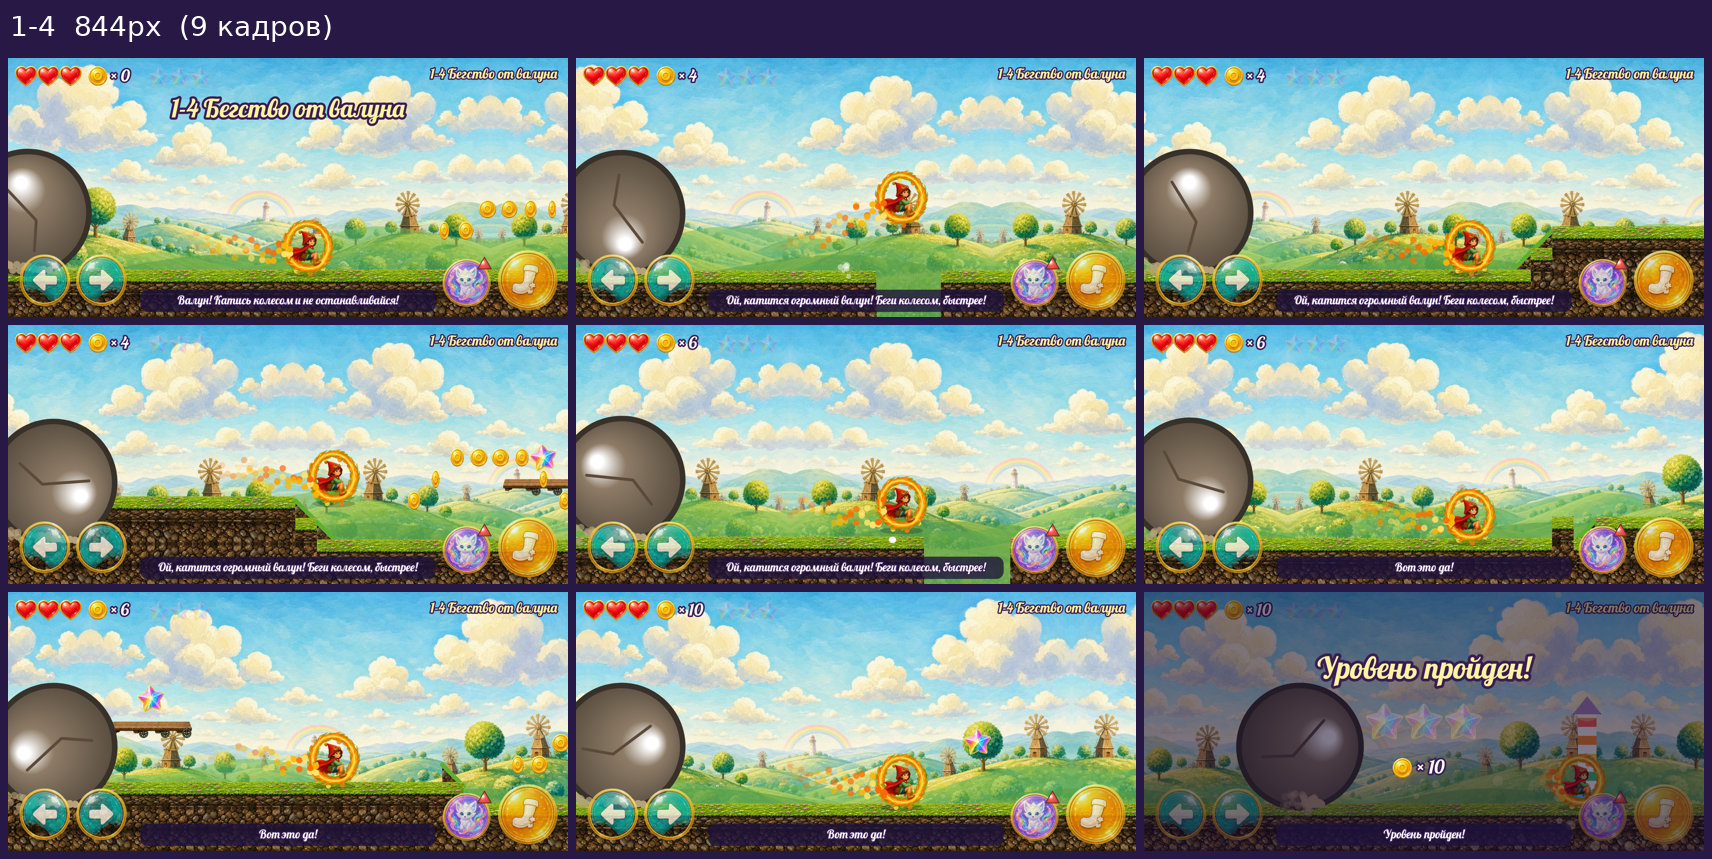
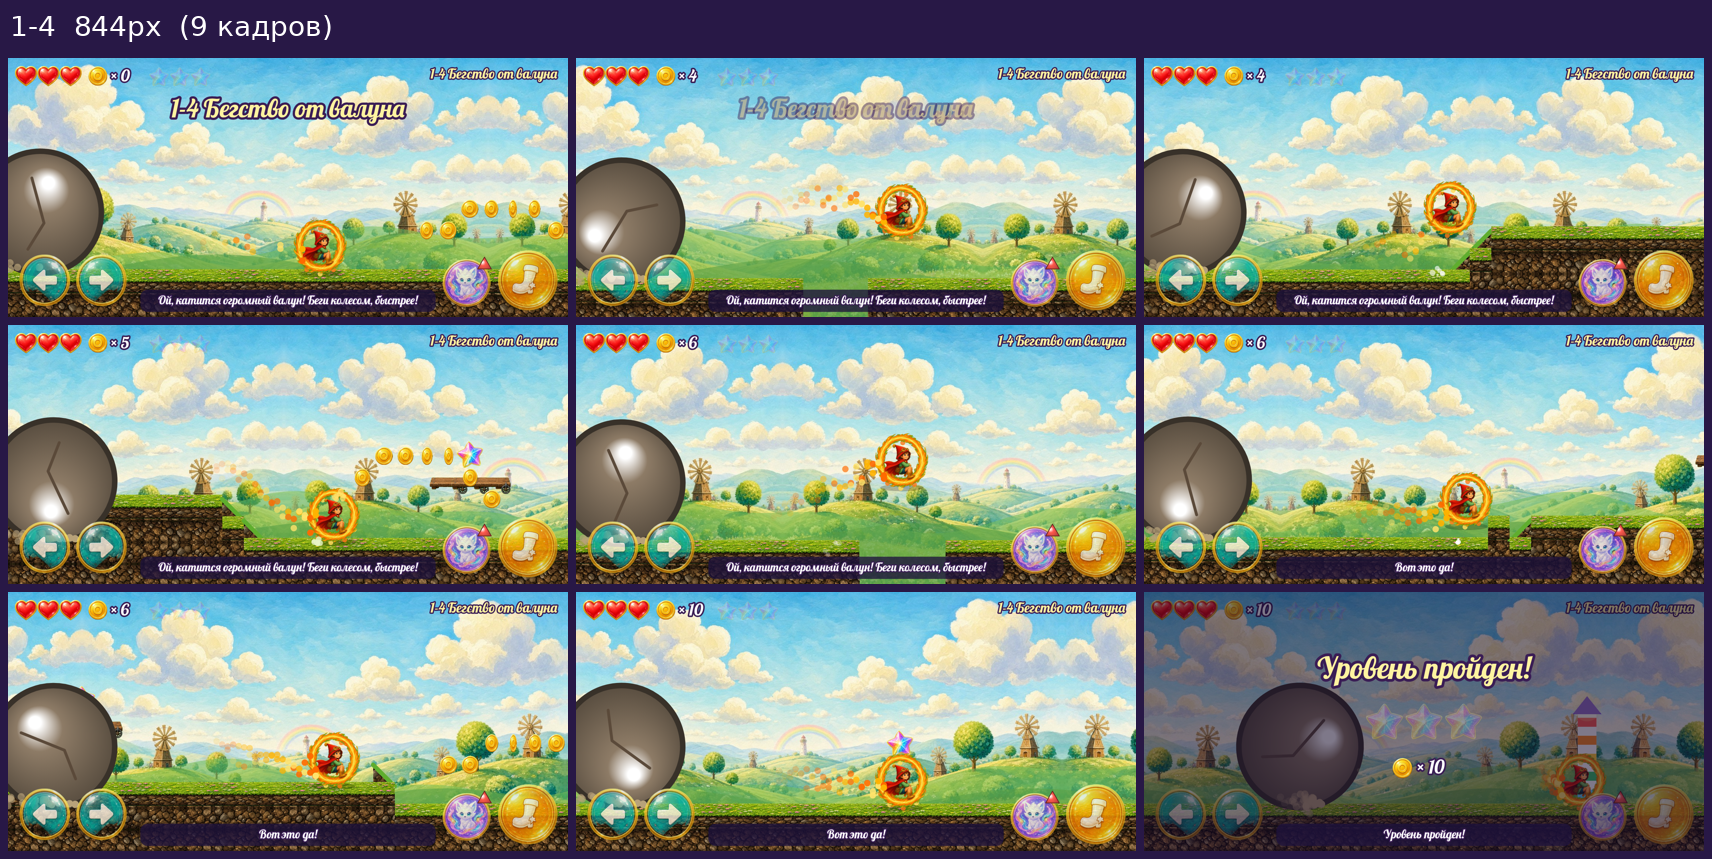
v3 progress, sheets

diff --git a/PROGRESS.md b/PROGRESS.md
@@ -12,3 +12,8 @@
 - tools/test.py (SZ=844x390): бот прошёл 1-1, 1-2; в 1-3 застревал в пузыре у высокой стены (исправлено в v2, нужно перепроверить), 1-4 и босс ботом ещё не проверены.
 - Голоса: voicegen идёт очень медленно (CPU занят чужим chromium), 5/66 строк; i1, i3, i4 с высоким WER — перегенерировать (удалить mp3 и запустить снова). Без голоса игра показывает субтитры.
 - Дальше: перепроверка бота на 3 размерах -> листы скриншотов -> миры 2-6.
+
+## v3 (29.10 ~23:40 UTC+1) — Мир 1 проверен
+- Бот: 1-1..1-4+1-B проходит на 844x390, 667x375, 932x430, badFeet 0, ошибок 0. Листы: sheets/{844,667,932}_1-*.png
+- Сделано: 7 нарисованных форм, бег 4 ключевых позы, idle взгляд/машет, босс с фазой «закружился» (шипы только тогда, 8 шипов ~20–34 с), арена босса = ширине экрана, валун всегда в кадре, сказочные панели, субтитры внизу.
+- Дальше: голоса (очередь voicegen, медленно ~1 реплика/10 мин), ямы-визуал, миры 2–6.
